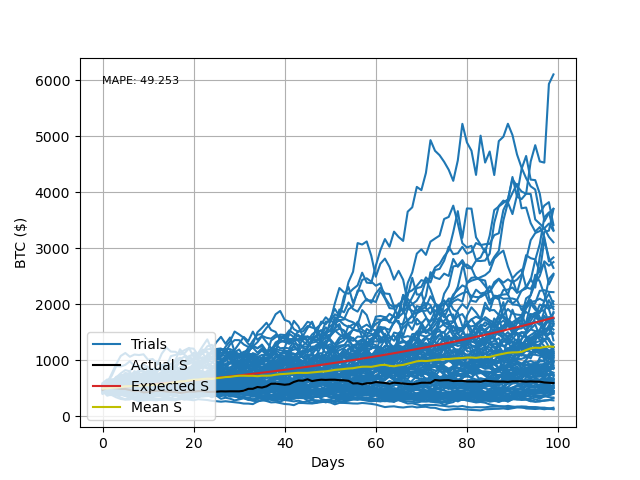
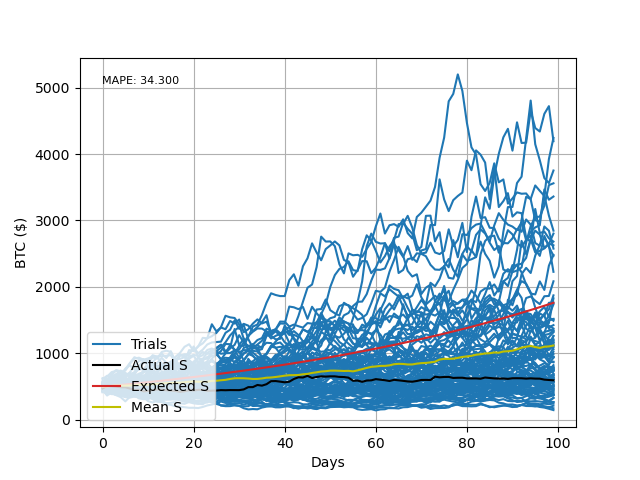
Fixed main bug

diff --git a/code/classes/GBM_base.py b/code/classes/GBM_base.py
@@ -130,8 +130,7 @@ class GBM_base(object):
             '''
             self.expected_S,self.lower_conf,self.upper_conf = self.__get_confidence_intervals(self.S0,self.mu,self.sigma,drift,self.pred_dates)
 
-            #self.test_set = self.prices[self.hist_range[1]:self.hist_range[1]+timedelta(days=self.n_pred)]
-            self.test_set = self.crypto.return_prices_over_range(self.hist_range[1],self.hist_range[1]+timedelta(days=self.n_pred))
+            self.test_set = self.crypto.return_prices_over_range(pd.to_datetime(self.hist_range[1]),pd.to_datetime(self.hist_range[1])+timedelta(days=self.n_pred))
 
         elif self.pred_type=='rolling':
             for i,test in enumerate(self.test_sets):
@@ -232,20 +231,21 @@ class GBM_base(object):
             if not isinstance(self.hist_range[0],datetime) or not isinstance(self.hist_range[1],datetime):
                 start_date,end_date = pd.to_datetime(self.hist_range[0]),pd.to_datetime(self.hist_range[1])
             else:
-                start_date,end_date = self.hist_range[0],self.hist_range[1]
+                start_date,end_date = self.hist_range[0],self.hist_range[1] 
+               
         except:
+            print('This check failed')
             train_set = self.prices[0:200]
             self.hist_range = [self.dates[0],self.dates[199]]
             return train_set
-
-        if isinstance(self.hist_range,list) and len(self.hist_range)==2 and \
-            isinstance(self.hist_range[0],datetime) and isinstance(self.hist_range[1],datetime) \
-            and start_date>=self.dates[0] and end_date<self.dates.iloc[-1]:
+        
+        if isinstance(self.hist_range,list) and len(self.hist_range)==2 \
+                        and start_date>=self.dates[0] and end_date<self.dates.iloc[-1]:
             start_idx,end_idx = self.dates[self.dates==start_date].index[0],self.dates[self.dates==end_date].index[0]
             train_set = self.prices[start_idx:end_idx]
         else:
             train_set = self.prices[0:200]
-            self.hist_range = [self.crypto.price_df['Date'][0],self.crypto.price_df['Date'][199]]
+            self.hist_range = [self.dates[0],self.dates[199]]
         return train_set
 
     def __get_test_sets(self):

diff --git a/code/main.py b/code/main.py
@@ -11,13 +11,13 @@ if __name__=='__main__':
     python main.py --crypto btc --prediction single --n_paths 100 --h_range "2018-06-06,2019-06-06" --n_pred_pts 100 --save_res Y
 
     Sample command for a rolling prediction:
-    python main.py --crypto btc --prediction rolling --n_paths 100 --h_range "2018-06-06,2019-06-06" --n_periods 10 --period 30 --save_res Y
+    python main.py --crypto btc --prediction rolling --n_paths 100 --h_range "2014-06-06,2018-06-06" --n_periods 10 --period 30 --save_res Y
     '''
     
     parser.add_argument('--crypto',action='store',type=str,required=True,help='Cryptocurrency')
     parser.add_argument('--prediction',action='store',default='single',type=str,required=True,help='Type of prediction (single/rolling)')
     parser.add_argument('--n_paths',action='store',default=100,type=int,required=True,help='Number of random paths generated')
-    parser.add_argument('--h_range',action='store',default=[0,1000],
+    parser.add_argument('--h_range',action='store',default=["2018-06-06","2019-06-06"],
     type=lambda s: [str(item) for item in s.split(',')],required=False,
     help='History range for training set, specified as "startIdx,endIdx"')
     parser.add_argument('--period',action='store',default=30,type=int,
@@ -34,13 +34,14 @@ if __name__=='__main__':
 
     index = Crypto(crypto.upper())
     if pred_type=='single':
-        n_pred_pts = args.n_pred_pts        
-        gbm = GBM_base(crypto=index,pred_type=pred_type)
+        hist_range,n_pred_pts = args.h_range,args.n_pred_pts        
+        gbm = GBM_base(crypto=index,hist_range=hist_range,pred_type=pred_type)
         gbm.make_predictions_base(n_pred_paths=n_paths,n_pred=n_pred_pts)
         gbm.plot_predictions(savefig=True) if save_res.upper()=='Y' else gbm.plot_predictions(savefig=False)
     
     elif pred_type=='rolling':
         hist_range,period,n_periods = args.h_range,args.period,args.n_periods
+        
         gbm = GBM_base(crypto=index,hist_range=hist_range,period=period,n_pred_periods=n_periods,pred_type=pred_type)
         gbm.make_predictions_base(n_pred_paths=n_paths)
         gbm.plot_predictions(savefig=True) if save_res.upper()=='Y' else gbm.plot_predictions(savefig=False)
